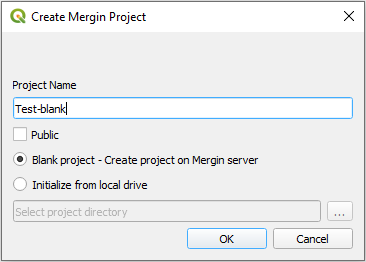
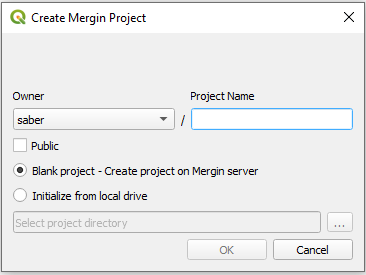
updated the text and images

diff --git a/www/pages/working-with-qgis-plugin.md b/www/pages/working-with-qgis-plugin.md
@@ -98,6 +98,14 @@ You can create a new Mergin project using the plugin. The plugin offers two opti
 
 	**Note:** There should be only one QGIS project (qgs or qgz file) within the folder (or subfolders).
 
+The plugin allows you to create the project under your own name or an organization you are a member of, provided that you have write access to the name space.
+
+### Cloning an existing project
+
+With the plugin, you can make a copy of one of your existing projects or the ones shared with you. Simply right-click on the project under the **Browser panel > Mergin ** and select **Clone**. In the new window, select the **Owner** from the drop-down menu and type your new **Project Name**.
+
+	<p align="center"><img src="../images/qgis-plugin/clone.png" width="50%"></p>
+
 ### Deleting a project
 
 You can delete a Mergin project either on your PC (locally) or on the Mergin server. To be able to delete the project on the Mergin server, you need to first delete the files locally.
